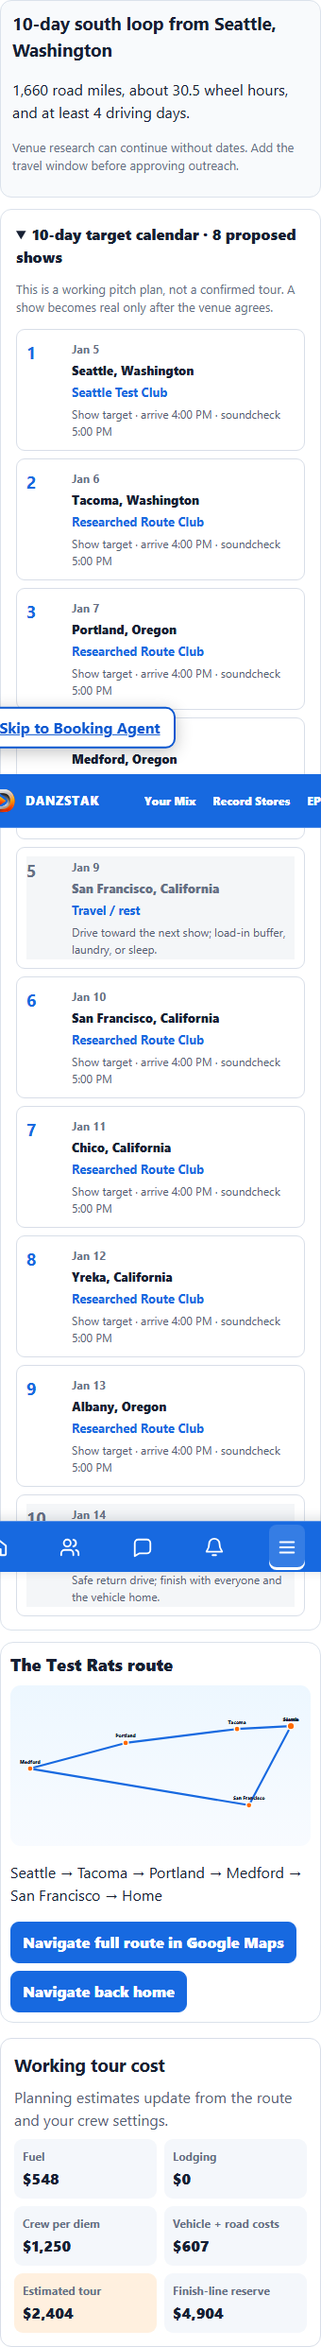
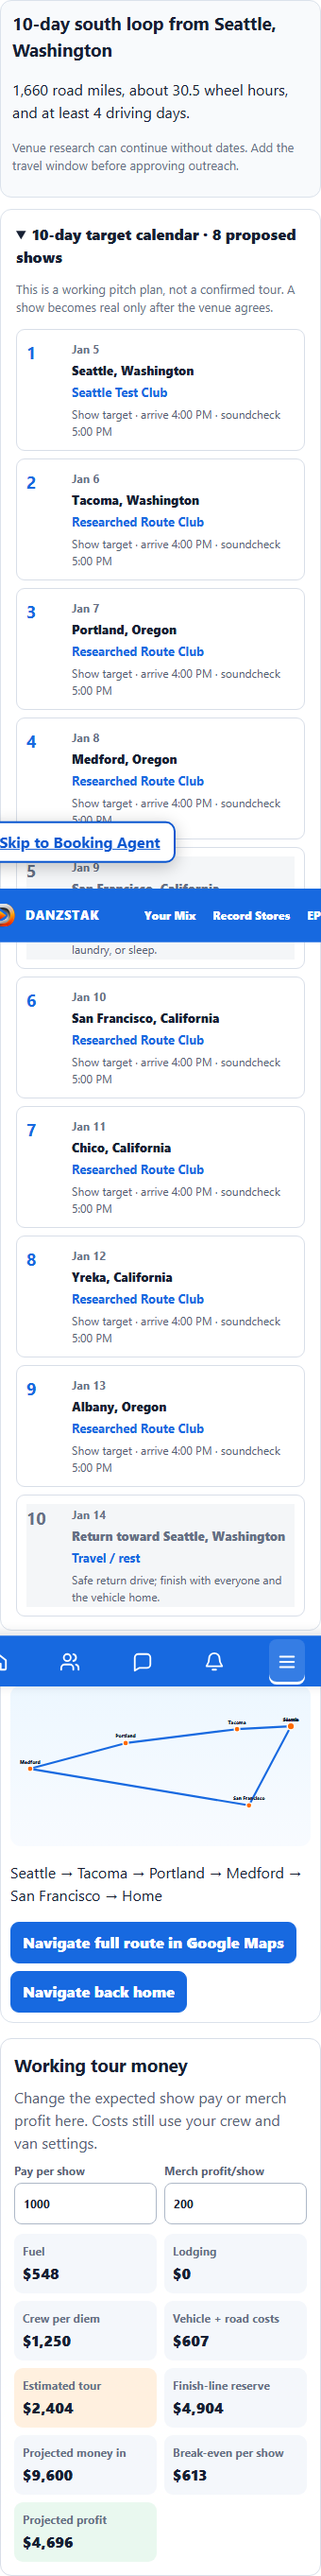
Add projected income to Booking tour sheet

diff --git a/assets/booking-agent.js b/assets/booking-agent.js
@@ -424,6 +424,15 @@
     1e3,
     "0.01",
   );
+  addNumberField("Average show pay", "averageShowPay", 150, 0, 1e6, "1");
+  addNumberField(
+    "Average merch profit/show",
+    "averageMerchPerShow",
+    150,
+    0,
+    1e6,
+    "1",
+  );
   const conditionLabel = document.createElement("label"),
     conditionSelect = document.createElement("select");
   conditionLabel.append(
@@ -462,6 +471,9 @@
   addSummaryRow("Budget needed to finish", "finishBudget");
   addSummaryRow("Minimum net per show", "perShowCost");
   addSummaryRow("Break-even merch items", "merchBreakEven");
+  addSummaryRow("Projected show pay", "projectedShowPay");
+  addSummaryRow("Projected merch profit", "projectedMerch");
+  addSummaryRow("Projected tour result", "projectedTourNet");
   const settlementArticle = $("settlementMethod").closest("article"),
     settlementConfirmation = $("settlementConfirmed").closest("label");
   function closeoutField(labelText, id, options = {}) {
@@ -543,7 +555,11 @@
       ),
       finishBudget = total + reserve,
       shows = Math.max(1, number("showCount")),
-      merchProfit = number("merchProfit");
+      merchProfit = number("merchProfit"),
+      projectedShowPay = shows * number("averageShowPay"),
+      projectedMerch = shows * number("averageMerchPerShow"),
+      projectedIncome = projectedShowPay + projectedMerch,
+      projectedNet = projectedIncome - finishBudget;
     $("fuelCost").textContent = money.format(fuel);
     $("lodgingCost").textContent = money.format(lodging);
     $("mealCost").textContent = money.format(meals);
@@ -559,13 +575,28 @@
       meals,
       road: vehicle + extras,
       total,
-      finish: finishBudget
+      finish: finishBudget,
+      income: projectedIncome,
+      net: projectedNet,
+      breakEven: finishBudget / shows,
     };
     for (const [name, value] of Object.entries(routeCosts)) {
       const output = document.querySelector(`[data-route-cost="${name}"]`);
       if (output) output.textContent = money.format(value);
     }
     $("perShowCost").textContent = money.format(finishBudget / shows);
+    $("projectedShowPay").textContent = money.format(projectedShowPay);
+    $("projectedMerch").textContent = money.format(projectedMerch);
+    $("projectedTourNet").textContent = `${projectedNet >= 0 ? "Profit " : "Loss "}${money.format(Math.abs(projectedNet))}`;
+    const routeBudget = document.querySelector(".route-cost-summary");
+    if (routeBudget) {
+      routeBudget.classList.toggle("route-loss", projectedNet < 0);
+      routeBudget.classList.toggle("route-profit", projectedNet >= 0);
+      const netLabel = routeBudget.querySelector('[data-route-cost-label="net"]');
+      if (netLabel) netLabel.textContent = projectedNet >= 0 ? "Projected profit" : "Projected loss";
+      const netOutput = routeBudget.querySelector('[data-route-cost="net"]');
+      if (netOutput) netOutput.textContent = money.format(Math.abs(projectedNet));
+    }
     $("merchBreakEven").textContent = merchProfit
       ? Math.ceil(finishBudget / merchProfit).toLocaleString() + " items"
       : "Set item profit";
@@ -1201,7 +1232,15 @@
     summary.className = "route-summary";
     summary.append(title, details, status);
     budget.className = "route-cost-summary";
-    budget.innerHTML = '<h3>Working tour cost</h3><p>Planning estimates update from the route and your crew settings.</p><dl><div><dt>Fuel</dt><dd data-route-cost="fuel">—</dd></div><div><dt>Lodging</dt><dd data-route-cost="lodging">—</dd></div><div><dt>Crew per diem</dt><dd data-route-cost="meals">—</dd></div><div><dt>Vehicle + road costs</dt><dd data-route-cost="road">—</dd></div><div class="total"><dt>Estimated tour</dt><dd data-route-cost="total">—</dd></div><div><dt>Finish-line reserve</dt><dd data-route-cost="finish">—</dd></div></dl>';
+    budget.innerHTML = '<h3>Working tour money</h3><p>Change the expected show pay or merch profit here. Costs still use your crew and van settings.</p><div class="route-income-controls"><label>Pay per show<input type="number" min="0" max="1000000" step="1" data-route-budget-input="averageShowPay"></label><label>Merch profit/show<input type="number" min="0" max="1000000" step="1" data-route-budget-input="averageMerchPerShow"></label></div><dl><div><dt>Fuel</dt><dd data-route-cost="fuel">—</dd></div><div><dt>Lodging</dt><dd data-route-cost="lodging">—</dd></div><div><dt>Crew per diem</dt><dd data-route-cost="meals">—</dd></div><div><dt>Vehicle + road costs</dt><dd data-route-cost="road">—</dd></div><div class="total"><dt>Estimated tour</dt><dd data-route-cost="total">—</dd></div><div><dt>Finish-line reserve</dt><dd data-route-cost="finish">—</dd></div><div><dt>Projected money in</dt><dd data-route-cost="income">—</dd></div><div><dt>Break-even per show</dt><dd data-route-cost="breakEven">—</dd></div><div class="route-net"><dt data-route-cost-label="net">Projected result</dt><dd data-route-cost="net">—</dd></div></dl>';
+    budget.querySelectorAll("[data-route-budget-input]").forEach(input => {
+      const source = $(input.dataset.routeBudgetInput);
+      input.value = source.value;
+      input.addEventListener("input", () => {
+        source.value = input.value;
+        recalculate();
+      });
+    });
     workspace.className = "tour-sheet-workspace";
     daySheet.className = "tour-sheet-main";
     daySheet.append(summary, renderProposedCalendar(data), renderRouteMap(data));

diff --git a/assets/booking-workspace.css b/assets/booking-workspace.css
@@ -212,6 +212,29 @@
 .booking-page .route-cost-summary h3,
 .booking-page .route-cost-summary p { margin: 0 0 8px; }
 .booking-page .route-cost-summary p { color: #566274; }
+.booking-page .route-income-controls {
+  display: grid;
+  grid-template-columns: repeat(2,minmax(0,1fr));
+  gap: 8px;
+  margin-bottom: 10px;
+}
+.booking-page .route-income-controls label {
+  display: grid;
+  gap: 4px;
+  color: #566274;
+  font-size: 12px;
+  font-weight: 750;
+}
+.booking-page .route-income-controls input {
+  width: 100%;
+  min-height: 44px;
+  padding: 8px 9px;
+  border: 1px solid #adb8c7;
+  border-radius: 8px;
+  background: #fff;
+  color: #172033;
+  font: inherit;
+}
 .booking-page .route-cost-summary dl {
   display: grid;
   grid-template-columns: repeat(3,minmax(0,1fr));
@@ -226,6 +249,8 @@
 .booking-page .route-cost-summary dt { color: #667085; font-size: 12px; font-weight: 750; }
 .booking-page .route-cost-summary dd { margin: 3px 0 0; font-weight: 850; }
 .booking-page .route-cost-summary .total { background: #fff0df; }
+.booking-page .route-cost-summary .route-net { background: #e9f8ef; }
+.booking-page .route-cost-summary.route-loss .route-net { background: #fff0ef; }
 .booking-page .tour-sheet-workspace {
   display: grid;
   grid-template-columns: minmax(0,1fr) minmax(260px,340px);

diff --git a/service-worker.js b/service-worker.js
@@ -1,6 +1,6 @@
 "use strict";
 
-const CACHE = "danzstak-shell-v703";
+const CACHE = "danzstak-shell-v704";
 const SHELL = [
   "/assets/offline.js", "/assets/identity-media.js", "/assets/user-content-links.js", "/assets/user-content-links.css",
   "/assets/icon-buttons.js", "/assets/icon-buttons.css", "/assets/mobile-design-system.css", "/assets/danzstak-original-feed.css", "/assets/responsive-media.js", "/assets/responsive-media.css",

diff --git a/booking.html b/booking.html
@@ -688,7 +688,7 @@
     <script src="assets/app-feedback.js?v=3" defer></script>
     <script src="assets/logout.js?v=311" defer></script>
     <script src="assets/booking-identity.js?v=1" defer></script>
-    <script src="assets/booking-agent.js?v=484" defer></script>
+    <script src="assets/booking-agent.js?v=485" defer></script>
     <script src="assets/booking-conversation.js?v=479" defer></script>
   </body>
 </html>

diff --git a/docs/DANZSTAK-DEVELOPMENT-REPORT.md b/docs/DANZSTAK-DEVELOPMENT-REPORT.md
@@ -1187,3 +1187,13 @@ Status as of 2026-11-06: **IMPLEMENTED, TESTED, AND READY FOR REVIEW; PRODUCTION
 - Review commit `966d8f5ab7ebaa85fed24a8a62d37c6b3a69117f` deployed through AWS Amplify app `d31oovi2mos5iz`, branch `codex/issue-55-booking-workspace`, job `18`, which succeeded in `us-west-1` from 2026-11-06 23:48:50 to 23:49:40 Europe/Berlin. No production deployment occurred.
 - Hosted verification confirmed Booking Agent `v484` and service-worker cache `danzstak-shell-v703`, then reran the actual-browser Booking suite successfully against the review PWA at 320, 360, 390, 430, 768, and 1366px. Review URL: `https://codex-issue-55-booking-workspace.d31oovi2mos5iz.amplifyapp.com/booking.html`.
 - The sparse-market Lambda change remains **NOT DEPLOYED**. It requires a separately authorized backend deployment and live provider verification; this static review deployment does not change the review or production Lambda.
+
+## Booking Agent — projected tour income and break-even
+
+Status as of 2026-11-06: **IMPLEMENTED AND TESTED; REVIEW DEPLOYMENT PENDING**.
+
+- The working tour-money card now includes editable average show pay and average merch profit per show, projected money in, break-even per show, and a plainly labeled projected profit or loss. It uses the requested show count and the same finish-line budget as the cost calculator, so the income side cannot silently ignore the road reserve.
+- The same values remain available in the advanced tour calculator, with projected show pay, merch profit, and overall result shown alongside the existing cost and safety calculations.
+- Actual-browser coverage changes both income inputs on the generated eight-show tour, verifies the resulting `$9,600` projected income, verifies break-even is calculated, and confirms the result changes to projected profit.
+- Asset identifiers advance to Booking Agent `v485` and installed-PWA shell `danzstak-shell-v704` so installed review clients cannot retain the previous calculator.
+- Focused Booking tests and the actual-browser suite passed at 320, 360, 390, 430, 768, and 1366px. The complete repository regression suite then passed, including the 11-page site smoke suite and infrastructure validation.
